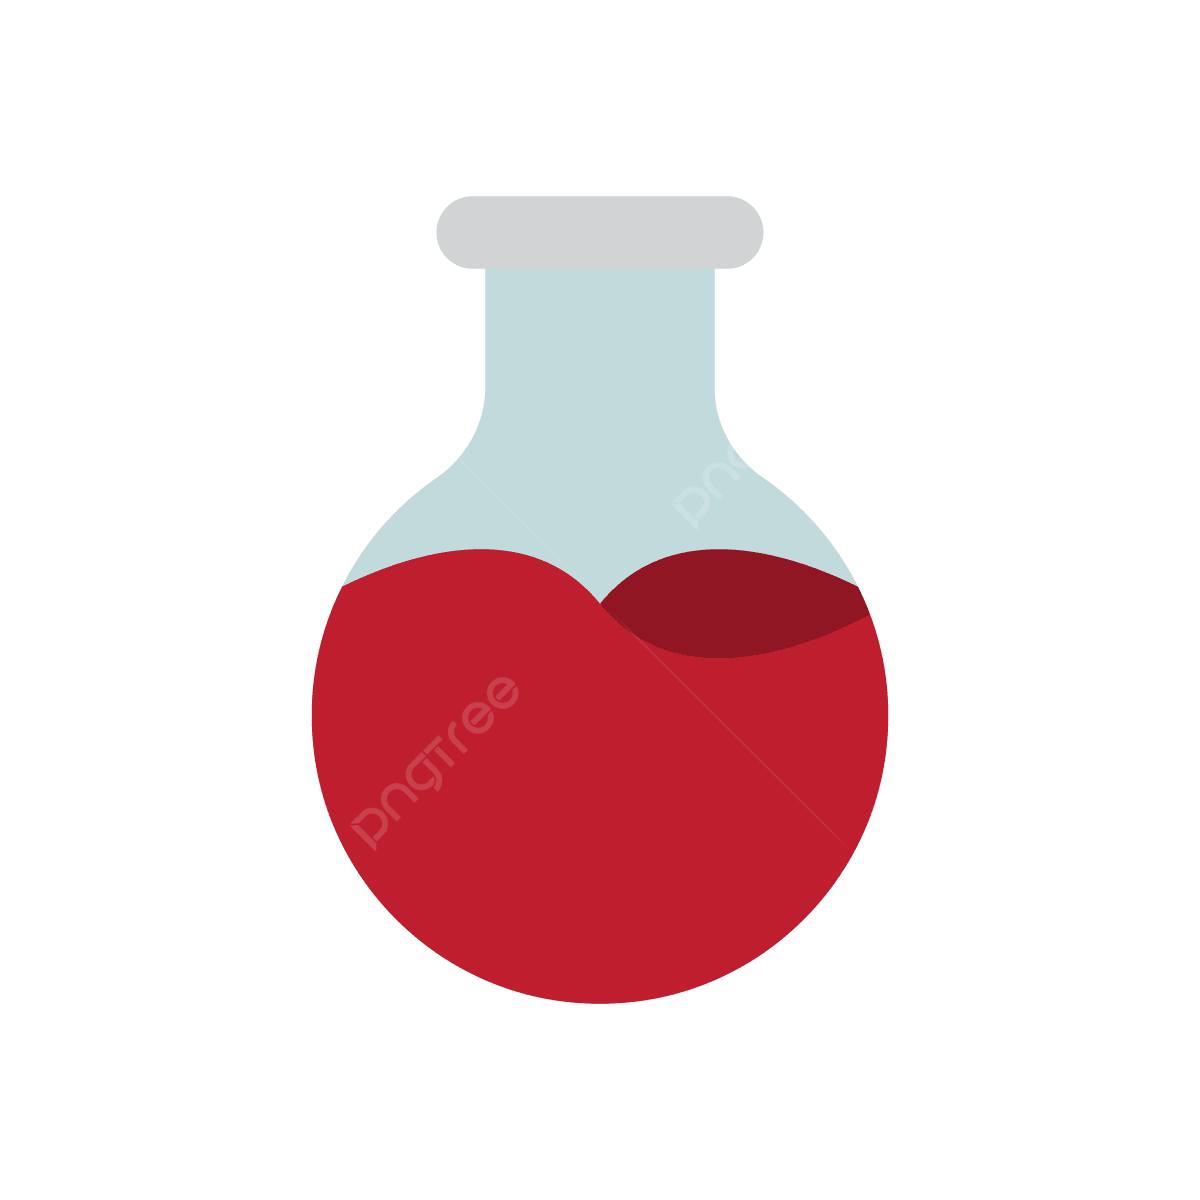
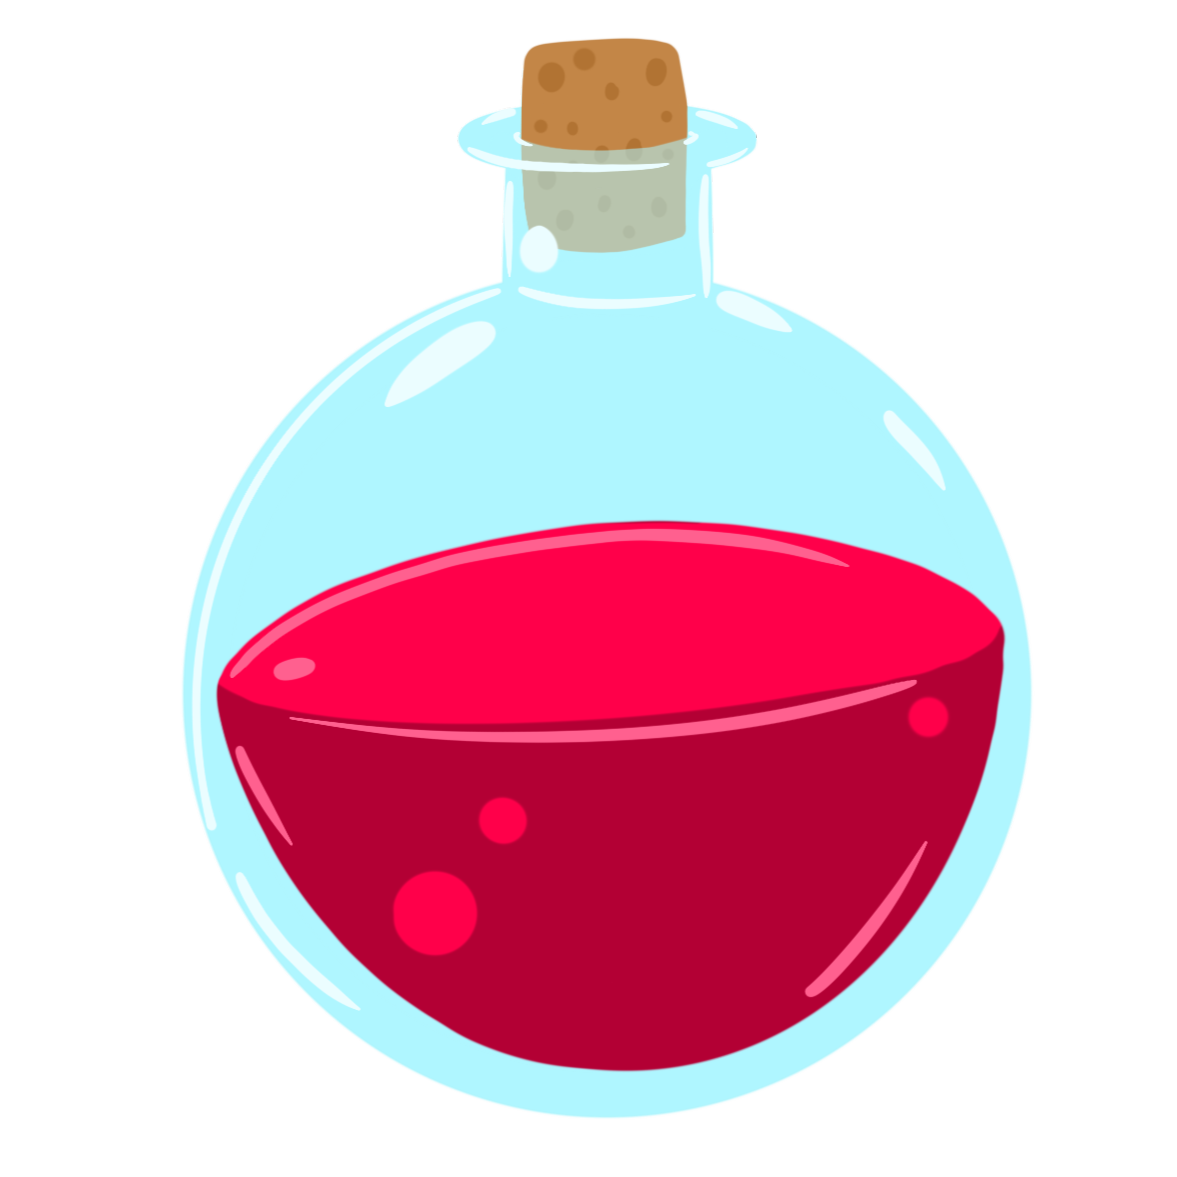
small cards

diff --git a/src/assets/main.css b/src/assets/main.css
@@ -28,7 +28,8 @@ body {
   inset: 0;
   z-index: -1;
   pointer-events: none;
-  background-image: url('./background.jpg');
+  background-color: rgb(214, 211, 211);
+  /* background-image: url('./background.jpg'); */
   background-size: cover;
   background-position: center;
   background-repeat: no-repeat;
@@ -692,8 +693,8 @@ body {
 
   /* Panels sit beside the board and center their content vertically */
   .game-panel {
-    width: 160px;
-    max-width: 160px;
+    width: 220px;
+    max-width: 220px;
     flex-shrink: 0;
     display: flex;
     flex-direction: column;
@@ -1060,6 +1061,22 @@ body {
   margin-bottom: 1.5rem;
 }
 
+.small-card {
+  background: radial-gradient(ellipse at center, #362f2b 0%, #241f1e 60%, #161212 100%);
+  clip-path: polygon(
+    0% 12px, 50% 0%, 100% 12px,
+    100% calc(100% - 12px), 50% 100%, 0% calc(100% - 12px)
+  );
+  filter: drop-shadow(0 0 1px rgba(180, 150, 90, 0.4)) drop-shadow(0 6px 20px rgba(0, 0, 0, 0.7));
+  border-radius: 0;
+  padding: calc(2.5rem + 12px) 2rem calc(2.5rem + 12px);
+  text-align: center;
+  max-width: 320px;
+  width: 90%;
+  color: var(--gs-100);
+  margin: auto 0;
+}
+
 .modal-enter-active,
 .modal-leave-active { transition: opacity 0.2s ease; }
 .modal-enter-from,
@@ -1157,6 +1174,12 @@ body {
   line-height: 1.4;
 }
 
+.shop-img {
+  width: 48px;
+  height: 48px;
+  object-fit: contain;
+}
+
 .inventory-list {
   display: grid;
   grid-template-columns: repeat(2, 56px);
@@ -1173,15 +1196,12 @@ body {
 .inventory-item-inner {
   width: 100%;
   height: 100%;
-  border-radius: 0.4rem;
 }
 
 .inventory-item-front {
   position: relative;
   width: 100%;
   height: 100%;
-  border-radius: 0.4rem;
-  border: 1px solid var(--gs-200);
   display: flex;
   flex-direction: column;
   align-items: center;
@@ -1230,7 +1250,7 @@ body {
 .inventory-item-name {
   font-size: 0.65rem;
   text-align: center;
-  color: var(--gs-700);
+  color: white;
   margin: 0;
   max-width: 52px;
 }
@@ -1621,6 +1641,14 @@ body {
   text-transform: uppercase;
   letter-spacing: 0.08em;
   color: var(--gs-600);
+  margin-bottom: 0.1rem;
+}
+
+.inventory-label {
+  font-size: 0.8rem;
+  text-transform: uppercase;
+  letter-spacing: 0.08em;
+  color: white;
   margin-bottom: 0.1rem;
 }
 

diff --git a/src/views/GameView.vue b/src/views/GameView.vue
@@ -102,6 +102,7 @@
           <aside class="game-panel game-panel--left">
             <div class="class-feature">
               <div class="class-feature-img-col" :class="{ 'health-hit': playerDamageAnim === 'damage', 'health-heal': playerDamageAnim === 'heal' }">
+                <div class="small-card">
                 <div v-if="mode === 'testing'" class="test-health-btns">
                   <button class="btn-test-health btn-test-heal" @click="testHeal">Heal</button>
                   <button class="btn-test-health btn-test-damage" @click="testDamage">Damage</button>
@@ -121,9 +122,10 @@
                 <p v-else-if="CLASSES.find(c => c.id === playerClass)?.description" class="portrait-enemy-effect">
                   {{ CLASSES.find(c => c.id === playerClass)?.description }}
                 </p>
-                <div v-if="inventoryItems.length || mode === 'testing'" class="inventory mt-2">
+              </div>
+                <div class="inventory small-card mt-2">
                   <div class="inventory-title-row">
-                    <p class="feature-label">Inventory</p>
+                    <p class="inventory-label">Inventory</p>
                   </div>
                   <div class="inventory-list">
                     <div v-for="(item, i) in inventoryItems" :key="i" class="inventory-item"
@@ -132,7 +134,7 @@
                         <div class="inventory-item-front">
                           <img v-if="ITEM_IMAGES[item.id]" :src="ITEM_IMAGES[item.id]" :alt="item.name" class="inv-img" />
                           <div v-else class="art-placeholder art-placeholder--inv">{{ item.name }}</div>
-                          <p class="inventory-item-name">{{ item.name }}</p>
+                          <!-- <p class="inventory-item-name">{{ item.name }}</p> -->
                         </div>
                         <div class="inventory-item-back">
                           <p class="inventory-item-desc">{{ item.description }}</p>
@@ -254,7 +256,7 @@
 
           <!-- Right panel: current enemy -->
           <aside class="game-panel game-panel--right">
-            <div v-if="currentEnemy" class="enemy-section" :class="{ 'health-hit': enemyHitAnim }">
+            <div v-if="currentEnemy" class="enemy-section small-card" :class="{ 'health-hit': enemyHitAnim }">
               <div class="art-placeholder art-placeholder--monster" :class="{ 'h-shake': bossShaking }"
                 @animationend="bossShaking = false">Art of {{ currentEnemy.name }}</div>
               <div v-if="currentEnemy.id === 'slumbering-giant'" class="snore-bars" :class="{ 'snore-bars--awake': giantAwake }">
@@ -274,14 +276,18 @@
 
       </template>
 
-      <!-- Modal (sits above all screens) -->
+      <!-- Modal -->
       <Transition name="modal">
         <div v-if="modal" class="modal-overlay">
           <div class="modal-card" :class="{ 'modal-card--wide': modal === 'shop' || modal === 'test-shop' || modal === 'stats' || modal === 'changeling-test-pick' }">
+
+            <!-- Boss announcement -->
             <template v-if="modal === 'boss-announcement'">
               <div class="art-placeholder art-placeholder--modal-monster my-3">Art of {{ currentBoss.name }}</div>
               <p class="modal-message">{{ currentBoss.announcement }}</p>
             </template>
+
+            <!-- Shop -->
             <template v-else-if="modal === 'shop'">
               <p class="modal-message">You found a shop!</p>
               <p class="modal-submessage">{{ shopPrompt }}</p>
@@ -306,6 +312,8 @@
                 </button>
               </Transition>
             </template>
+
+            <!-- Use an item modal -->
             <template v-else-if="modal === 'use-item'">
               <p class="modal-message">Use {{ pendingUseItem.name }}?</p>
               <p class="modal-submessage">{{ pendingUseItem.description }}</p>
@@ -319,6 +327,8 @@
                 </button>
               </div>
             </template>
+
+            <!-- Know it all -->
             <template v-else-if="modal === 'know-it-all'">
               <Transition name="kit-fade" mode="out-in">
                 <p v-if="knowItAllModalPhase === 'taunt'" key="taunt" class="modal-message kit-message">
@@ -335,14 +345,17 @@
                 {{ knowItAllCanDismiss ? 'Got it' : '...' }}
               </button>
             </template>
+
+            <!-- Test shop -->
             <template v-else-if="modal === 'test-shop'">
-              <p class="modal-message">Testing — Add Items</p>
+              <p class="modal-message">Testing - Add Items</p>
               <div class="shop-items">
                 <div v-for="item in SHOP_ITEMS" :key="item.id" class="shop-item"
                   @click="testAddItem(item)">
                   <div class="shop-item-inner">
                     <div class="shop-item-front">
-                      <div class="art-placeholder art-placeholder--item">{{ item.name }}</div>
+                      <img v-if="ITEM_IMAGES[item.id]" :src="ITEM_IMAGES[item.id]" :alt="item.name" class="shop-img" />
+                      <div v-else class="art-placeholder art-placeholder--item">{{ item.name }}</div>
                       <p class="shop-item-name">{{ item.name }}</p>
                     </div>
                     <div class="shop-item-back">